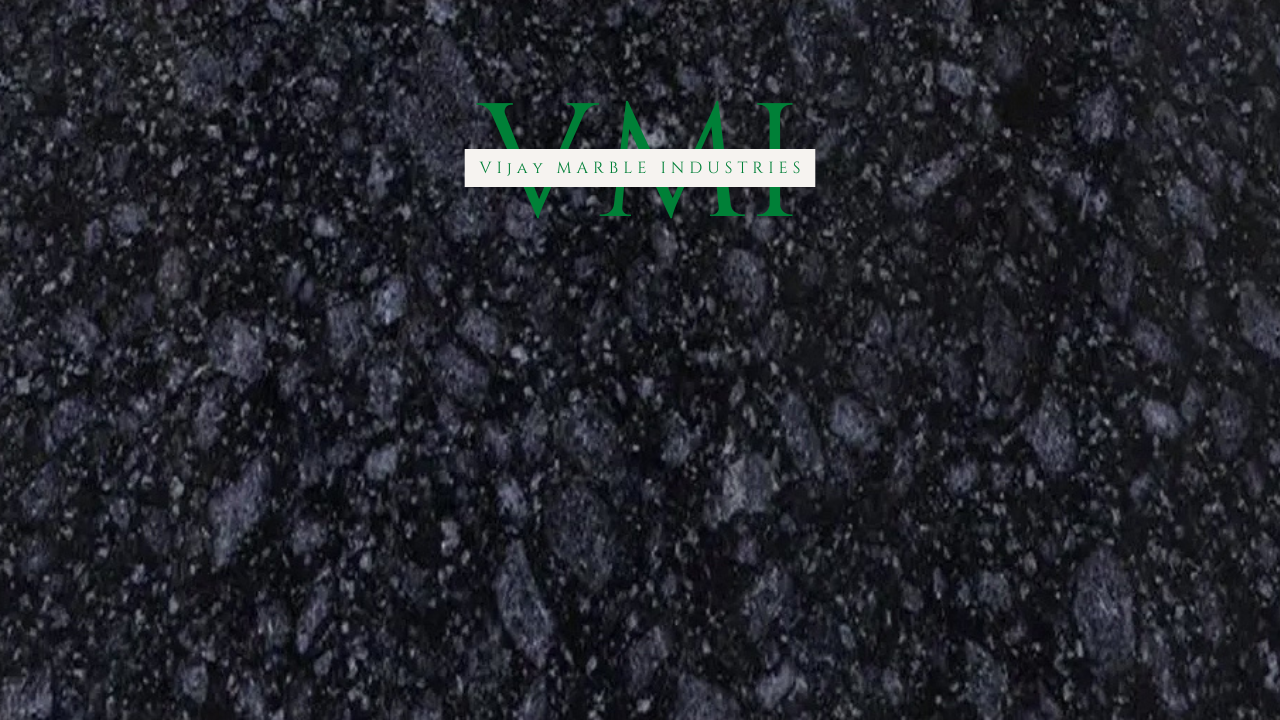
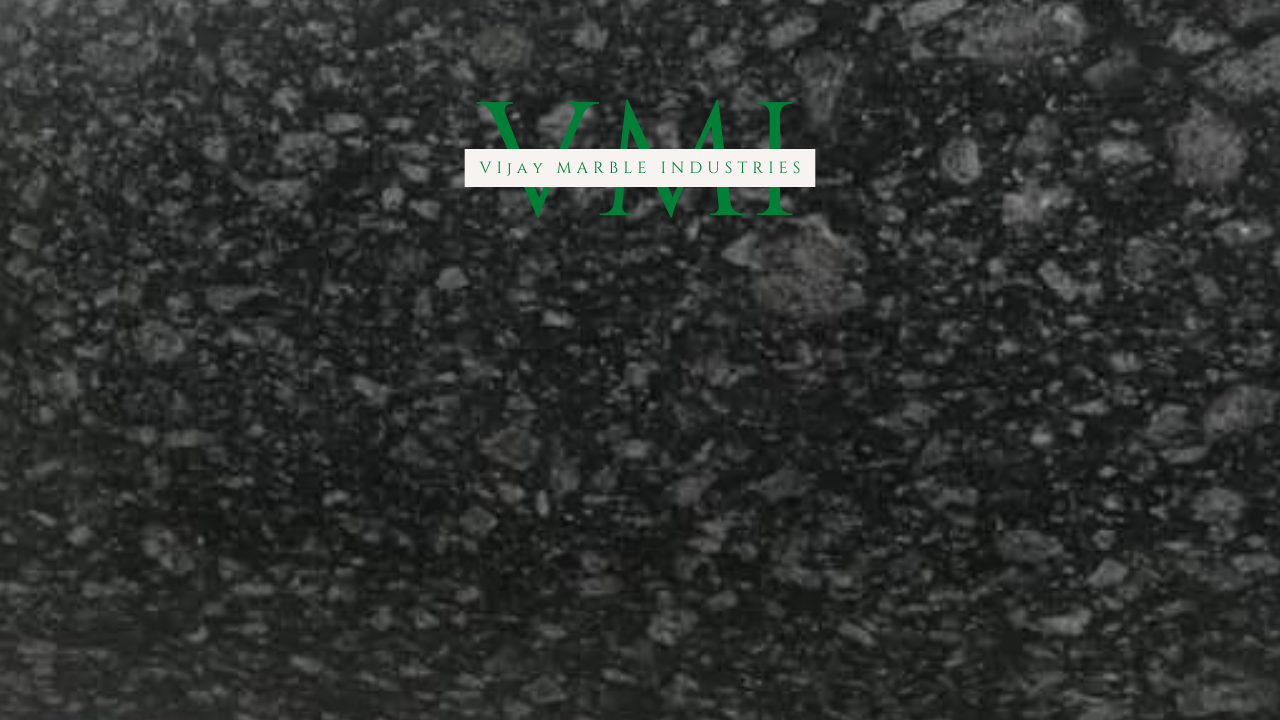
done

diff --git a/16.Zblackgranite.html b/16.Zblackgranite.html
@@ -10,6 +10,9 @@
       crossorigin="anonymous"
     ></script>
 
+    <link href="https://fonts.googleapis.com/css2?family=Montserrat:wght@400;500;900&display=swap" rel="stylesheet">
+    <link href="https://fonts.googleapis.com/css2?family=Zen+Tokyo+Zoo&display=swap" rel="stylesheet">
+    
     <link
       rel="stylesheet"
       href="https://kit.fontawesome.com/72e30dec22.css"
@@ -39,28 +42,29 @@
       
     <section id="prodetails" class="section-p1">
       <div class="single-pro-image">
-        <img src="img/product marble/10.jamredgranite/jam-red-granite.png" width="100%" id="MainImg" alt=""/>
+        <img src="img/product marble/16.zblackgranite/z-black-granite.png" width="100%" id="MainImg" alt=""/>
       <div class="small-img-group">
         <div class="small-img-col">
-          <img src="img/product marble/10.jamredgranite/jam-red-granite.png" width="100%" class="small-img" alt=""/>
+          <img src="img/product marble/16.zblackgranite/z-black-granite.png" width="100%" class="small-img" alt=""/>
         </div>
         <div class="small-img-col">
-          <img src="img/product marble/10.jamredgranite/jam-red-granite-slab2.png" width="100%" class="small-img" alt=""/>
+          <img src="img/product marble/16.zblackgranite/z-black-granite-slab1.png" width="100%" class="small-img" alt=""/>
         </div>
         <div class="small-img-col">
-          <img src="img/product marble/10.jamredgranite/jam-red-granite-slab5.png" width="100%" class="small-img" alt=""/>
+          <img src="img/product marble/16.zblackgranite/z-black-granite-slab2.png" width="100%" class="small-img" alt=""/>
         </div>
         <div class="small-img-col">
-          <img src="img/product marble/10.jamredgranite/jam-red-granite-slab4.png" width="100%" class="small-img" alt=""/>
+          <img src="img/product marble/16.zblackgranite/z-black-granite-slab3.png" width="100%" class="small-img" alt=""/>
         </div>
         </div>
     </div>
       </div>
 
       <div class="single-pro-details">
-        <h6><a href="index.html">Home</a> / <a href="product.html">Products</a> / Jam Red Granite</h6>
-        <h4>Jam Red Granite</h4>
-        <h2>₹110-140/SQF</h2>
+        <h6><a href="index.html">Home</a> / <a href="product.html">Products</a> / Z-Black Granite</h6>
+        <h4>Z-Black Granite</h4>
+        <h2>₹140-160/SQF</h2>
+
         <div class="box">
           <a class="button" href="#divOne"><button class="normal">Contact US</button></a>
         </div>
@@ -93,7 +97,7 @@
           </tr>
           <tr>
             <td>Color</td>
-            <td>Red</td>
+            <td>Black</td>
           </tr>
           <tr>
             <td>Surface Finishing</td>
@@ -110,15 +114,19 @@
         </table>
       </div>
       </div>
+      
       </section>
       <section class="section-p1">
         <h4 class="more">Product Detail</h4>
-        <span>Gem Red granite from India is a medium-grained, red granite of the Precambrian period with light to medium grey clear background crystals. Its flawless look is unbeatable. Red Granite is a great example of the natural beauty that stone can bring to your home. Adding this Granite into any space can drastically improve the appearance of that area.
-          <br><br>
-          It is one of those stones that not only complements your rich taste but also adds warmth to your living space, in style. Gem Red granite creates a warm and unique look for hallway flooring, master bathroom, wall cladding, and fireplace surrounds. You can also install this stone in other ways around the house, such as countertops. It has multipurpose uses in the building construction industry. Gem Red is a good choice for Countertops applications in the kitchen and bathroom, Dining Tabletops, Wall decoration, and other design Projects. This Granite is also popular for exterior applications.
-          <br><br>
-          Homeowners love installing this gorgeous material into their homes.
-          Incorporating Gem Red granite into any space can instantly add a touch of luxury to the area. Every slab of natural stone is completely unique. This granite is an amazing natural stone that can visually transform any space for the better. </span>
+        <span>Z Black granite is one of the perfect options for interiors as well as for
+          exteriors. Z Black granite is a natural product which comes in beautiful designs and figures. Also, due to its
+          extraordinary glace and shine, people prefer it for both residential as well as for commercial
+          projects. Z Black granite is easy to fit and adds tremendous beauty to the sites. One can get Z Black granite in shape of natural blocks, processed slabs, and tiles and
+          also in beautiful border linings.  <b> Z Black granite is widely used for floorings, wall claddings,
+          borders and designs, handicraft items and many more.</b> Z Black granite is a multi-usable product
+          and therefore, it can be placed in bedrooms, dining halls, kitchens, lobby’s, parking’s,
+          storerooms, temple rooms or many more. This is one of the best features of Z Black granite.
+          </span>
         <br>
       </section>
    
@@ -166,6 +174,7 @@
     <div class="copyright">
         <p>© 2023,  Made with ❤ by Harsh</p>
     </div>
+
 </footer>
 
 

diff --git a/15.cheemapinkgranite.html b/15.cheemapinkgranite.html
@@ -42,28 +42,28 @@
       
     <section id="prodetails" class="section-p1">
       <div class="single-pro-image">
-        <img src="img/product marble" width="100%" id="MainImg" alt=""/>
+        <img src="img/product marble/15.cheemapinkgranite/Cheema-Pink.png" width="100%" id="MainImg" alt=""/>
       <div class="small-img-group">
         <div class="small-img-col">
-          <img src="img/product marble" width="100%" class="small-img" alt=""/>
+          <img src="img/product marble/15.cheemapinkgranite/Cheema-Pink.png" width="100%" class="small-img" alt=""/>
         </div>
         <div class="small-img-col">
-          <img src="img/product marble" width="100%" class="small-img" alt=""/>
+          <img src="img/product marble/15.cheemapinkgranite/Cheema-Pink-slab1.png" width="100%" class="small-img" alt=""/>
         </div>
         <div class="small-img-col">
-          <img src="img/product marble" width="100%" class="small-img" alt=""/>
+          <img src="img/product marble/15.cheemapinkgranite/Cheema-Pink-slab2.png" width="100%" class="small-img" alt=""/>
         </div>
         <div class="small-img-col">
-          <img src="img/product marble" width="100%" class="small-img" alt=""/>
+          <img src="img/product marble/15.cheemapinkgranite/Cheema-Pink-slab3.png" width="100%" class="small-img" alt=""/>
         </div>
         </div>
     </div>
       </div>
 
       <div class="single-pro-details">
-        <h6><a href="index.html">Home</a> / <a href="product.html">Products</a> / Marble</h6>
-        <h4>Dark Green Marble</h4>
-        <h2>₹37-45/SQF</h2>
+        <h6><a href="index.html">Home</a> / <a href="product.html">Products</a> / Cheema Pink Granite</h6>
+        <h4>Cheema Pink Granite</h4>
+        <h2>₹60-80/SQF</h2>
 
         <div class="box">
           <a class="button" href="#divOne"><button class="normal">Contact US</button></a>
@@ -97,7 +97,7 @@
           </tr>
           <tr>
             <td>Color</td>
-            <td>Green</td>
+            <td>Pink</td>
           </tr>
           <tr>
             <td>Surface Finishing</td>
@@ -118,7 +118,9 @@
       </section>
       <section class="section-p1">
         <h4 class="more">Product Detail</h4>
-        <span>Dark </span>
+        <span>Cheema granite is pink color granite. Cheema Pink Granite has a shiny pink surface that looks beautiful. Chima Pink Granite is quality granite found in the northwestern part of India. Chima Pink Granite has higher strength and durability which improves its usability. Although India is popular for various colors of granites, the most demanded are pink granites. Chima Pink Granite has the largest sales share among all pink granites.
+
+            Attractive patterns, as well as the appealing texture of Chima Pink Slab, are the key reasons that have raised its demand in the global markets. <b> Widely used for Interior and Exterior Purposes like Kitchen Countertops, Wall Cladding, and Tabletops. Vanity tops, Flooring, basins, Steps, and Risers, etc.</b> This Granite is also popular for exterior applications. </span>
         <br>
       </section>
    

diff --git a/product.html b/product.html
@@ -162,12 +162,30 @@
                 </div>
                 <!-- <a href="#"><i class="fas fa-cart-shopping cart"></i></a> -->
             </div>
-            <div class="pro" onclick="window.location.href='14pinkmarble.html'">
-                <img src="img/product marble/13.spidergreenmarble/spider-green-marble1.png" height="160px" alt="">
+            <div class="pro" onclick="window.location.href='14.pinkmarble.html'">
+                <img src="img/product marble/14.pinkmarble/pink-marble.png" height="160px" alt="">
                 <div class="des">
                     <span>VMI</span>
                     <h4>Pink Marble</h4>
                     <h3>₹30-45/SQF</h3>
+                </div>
+                <!-- <a href="#"><i class="fas fa-cart-shopping cart"></i></a> -->
+            </div>
+            <div class="pro" onclick="window.location.href='15.cheemapinkgranite.html'">
+                <img src="img/product marble/15.cheemapinkgranite/Cheema-Pink.png" height="160px" alt="">
+                <div class="des">
+                    <span>VMI</span>
+                    <h4>Cheema Pink Granite</h4>
+                    <h3>₹60-80/SQF</h3>
+                </div>
+                <!-- <a href="#"><i class="fas fa-cart-shopping cart"></i></a> -->
+            </div>
+            <div class="pro" onclick="window.location.href='16.zblackgranite.html'">
+                <img src="img/product marble/16.zblackgranite/z-black-granite.png" height="160px" alt="">
+                <div class="des">
+                    <span>VMI</span>
+                    <h4>Z-Black Granite</h4>
+                    <h3>₹140-160/SQF</h3>
                 </div>
                 <!-- <a href="#"><i class="fas fa-cart-shopping cart"></i></a> -->
             </div>

diff --git a/style.css b/style.css
@@ -762,7 +762,7 @@ footer .copyright {
 }
 
 #prodetails .single-pro-details button:hover{
-    color: #000;
+    color: #272626;
 }
 
 #prodetails .single-pro-details span {
